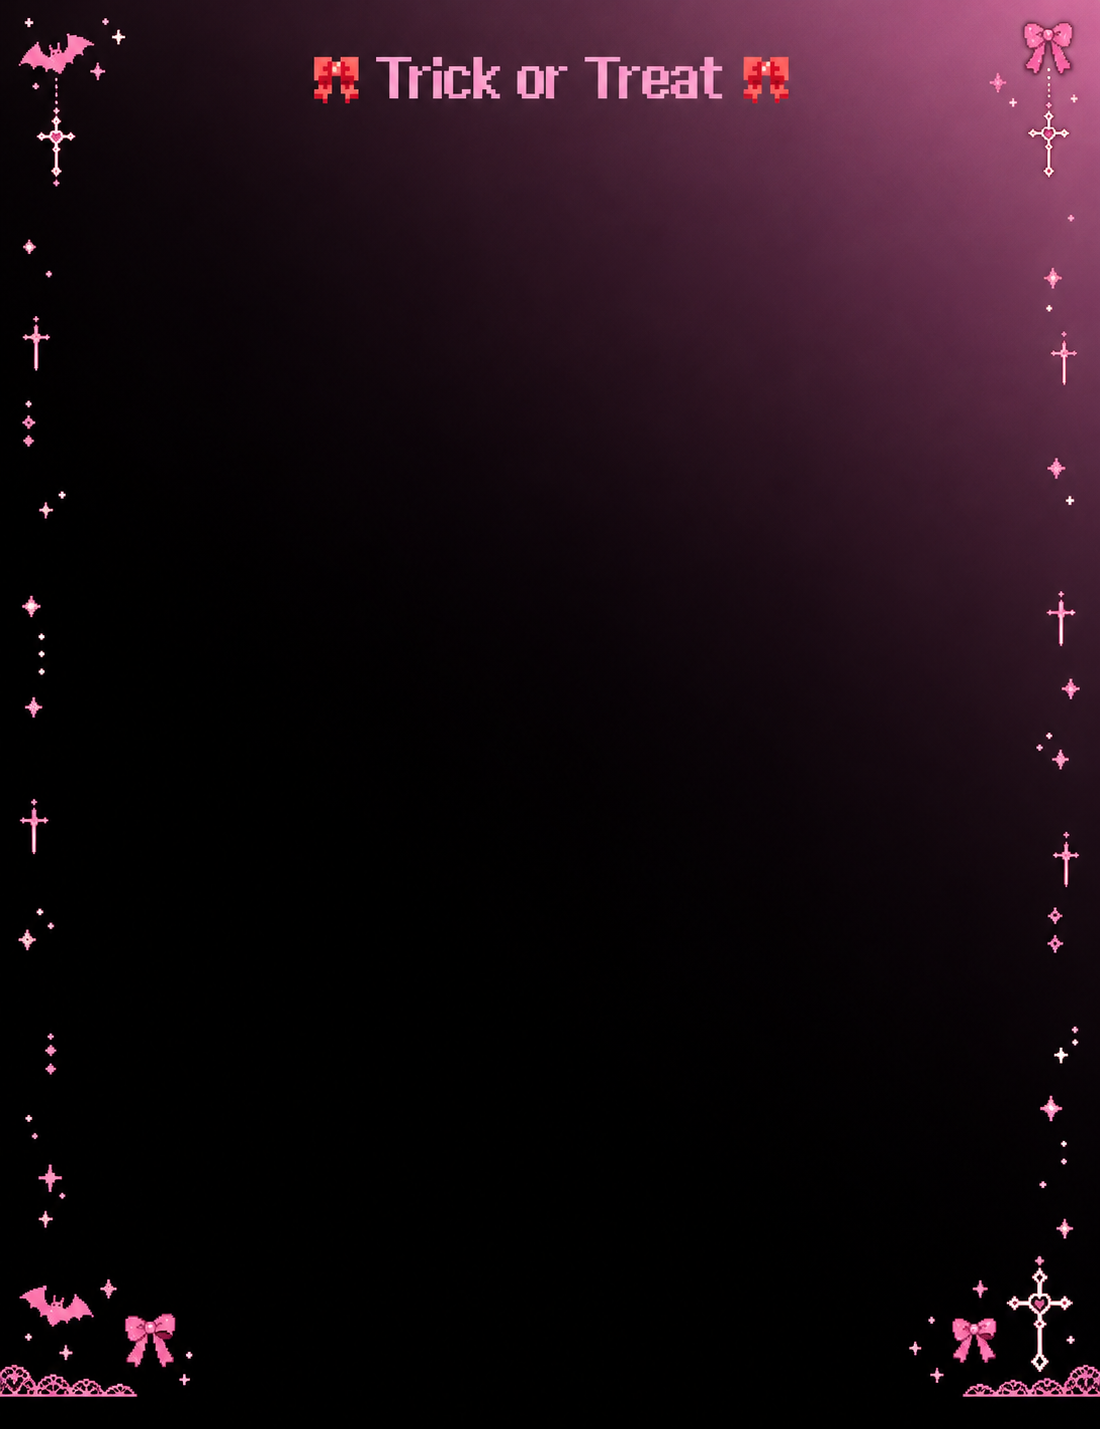
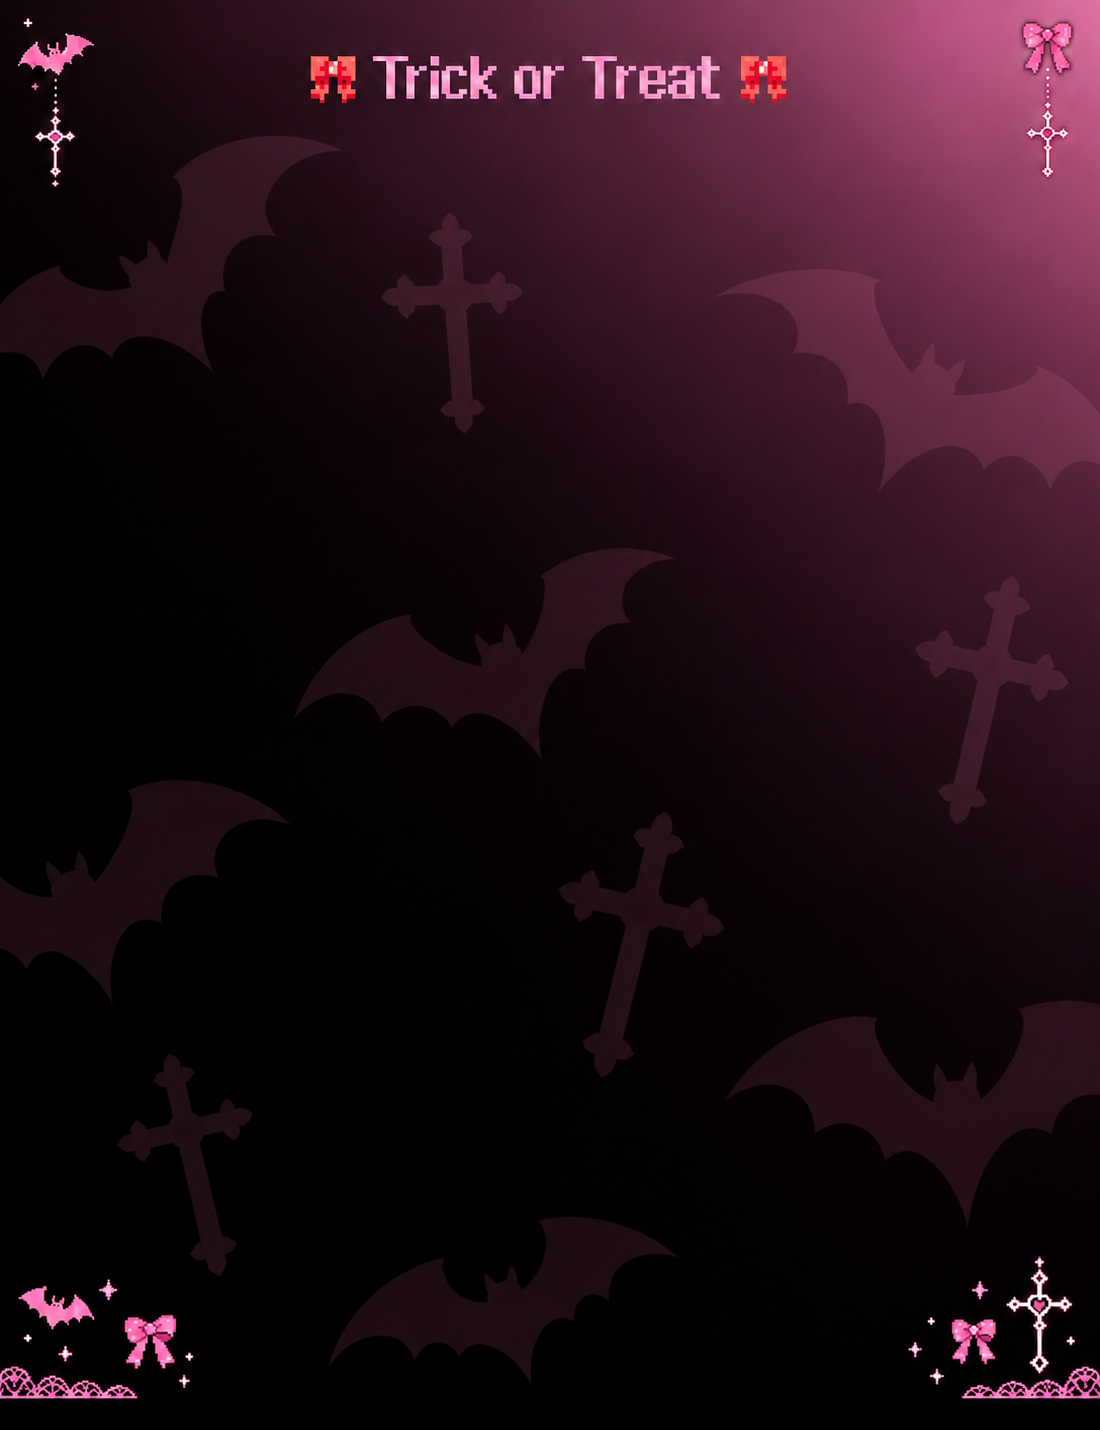
Use large muted bats and crosses across vintage pink background

diff --git a/index.html b/index.html
@@ -1,8 +1,8 @@
 <!doctype html>
 <html lang="ko">
-<head><meta charset="UTF-8"><meta name="viewport" content="width=device-width, initial-scale=1"><meta name="theme-color" content="#1b1622"><title>홍옥필름</title><link rel="icon" type="image/x-icon" href="./assets/favicon.ico?v=20261019.9"><link rel="icon" type="image/png" sizes="32x32" href="./assets/favicon-32.png?v=20261019.9"><link rel="apple-touch-icon" sizes="180x180" href="./assets/apple-touch-icon.png?v=20261019.9"><link rel="stylesheet" href="./style.css?v=20261019.9"></head>
+<head><meta charset="UTF-8"><meta name="viewport" content="width=device-width, initial-scale=1"><meta name="theme-color" content="#1b1622"><title>홍옥필름</title><link rel="icon" type="image/x-icon" href="./assets/favicon.ico?v=20261019.10"><link rel="icon" type="image/png" sizes="32x32" href="./assets/favicon-32.png?v=20261019.10"><link rel="apple-touch-icon" sizes="180x180" href="./assets/apple-touch-icon.png?v=20261019.10"><link rel="stylesheet" href="./style.css?v=20261019.10"></head>
 <body>
-<header><a class="brand" href="./">HONGOK FILM<span>CHARACTER PHOTO BOOTH</span></a><span class="edition" aria-label="배포 버전 v2026.10.19.9">v2026.10.19.9</span></header>
+<header><a class="brand" href="./">HONGOK FILM<span>CHARACTER PHOTO BOOTH</span></a><span class="edition" aria-label="배포 버전 v2026.10.19.10">v2026.10.19.10</span></header>
 <main>
 <section class="intro"><p class="eyebrow">YOUR MOMENT, FOUR FRAMES.</p><h1>우리의 순간을,<br>조금 특별하게<span>✦</span></h1><p>캐릭터와 함께, 혹은 나만의 모습으로.<br>마음에 드는 프레임에 지금 이 순간을 담아보세요.</p></section>
 <div class="theme-picker" role="group" aria-label="화면 테마"><span>화면 테마</span><button data-theme="lime" aria-pressed="true" style="--swatch:#d5f17c">미드나잇 라임</button><button data-theme="pumpkin" aria-pressed="false" style="--swatch:#ff714c">펌킨 오렌지</button><button data-theme="pink" aria-pressed="false" style="--swatch:#f29cbe">빈티지 핑크</button></div>
@@ -26,5 +26,5 @@
 <footer><span>네 장에 담는, 우리만의 이야기</span><span>HONGOK FILM</span></footer>
 </main>
 <dialog id="camera-dialog"><div class="dialog-top"><h2>지금 이 순간을 담아볼까요?</h2><button id="close-camera" class="text-button">닫기 ✕</button></div><p id="camera-label"></p><div class="camera-stage"><video id="video" autoplay playsinline muted></video><div id="camera-guide">캐릭터 자리<br><small>옆 빈 공간에 맞춰 서 주세요.</small></div><div id="countdown" aria-live="assertive"></div></div><div class="camera-options"><label><input id="camera-mirror" type="checkbox" checked> 거울 모드</label><label>타이머 <select id="timer"><option value="3">3초</option><option value="5">5초</option><option value="0">없음</option></select></label></div><div class="actions"><button id="switch-camera" class="button">카메라 전환</button><button id="capture" class="button primary" disabled>찰칵! 📸</button></div><p id="camera-status" role="status"></p></dialog>
-<script type="module" src="./app.js?v=20261019.9"></script>
+<script type="module" src="./app.js?v=20261019.10"></script>
 </body></html>

diff --git a/app.js b/app.js
@@ -23,7 +23,7 @@ function draw() {
   const background=assets.get(backgroundPath);if(background){
     ctx.drawImage(background,0,0,1200,1560);
     const assetName=backgroundPath?.split('?')[0];
-    const adjusted=['assets/background-01.png','assets/background-02.png','assets/background-03.png'].includes(assetName);
+    const adjusted=['assets/background-01.png','assets/background-02.png'].includes(assetName);
     if(frame==='halloween'&&adjusted){
       // Map the entire decorative edge strip into each 60px gutter, with 4px inset.
       // Source art is wider than the gutter; scaling keeps complete objects visible.
@@ -144,7 +144,7 @@ window.addEventListener('pagehide',closeCamera);
 document.addEventListener('visibilitychange',()=>{if(document.hidden&&$('camera-dialog').open)$('camera-dialog').close();});
 async function init(){
   try{
-    const response=await fetch('./assets/frames.json?v=20261019.9');if(!response.ok)throw new Error('config');config=await response.json();
+    const response=await fetch('./assets/frames.json?v=20261019.10');if(!response.ok)throw new Error('config');config=await response.json();
     const paths=[...config.characters.flatMap(c=>c.poses),...Object.values(config.overlays),...Object.values(config.backgrounds??{}).flatMap(value=>value&&typeof value==='object'?Object.values(value):[value])].filter(Boolean);
     await Promise.all([...new Set(paths)].map(async path=>{try{assets.set(path,await imageFrom(new URL(path,document.baseURI).href));}catch{status('일부 프레임을 불러오지 못해 임시 디자인을 표시해요.');}}));
     config.characters.forEach((c,i)=>{const button=document.createElement('button');button.textContent=c.name;button.classList.toggle('active',i===character);button.setAttribute('aria-pressed',String(i===character));button.onclick=()=>{character=i;[...$('characters').children].forEach((b,j)=>{b.classList.toggle('active',j===i);b.setAttribute('aria-pressed',String(j===i));});draw();updateCameraLabel();};$('characters').append(button);});
